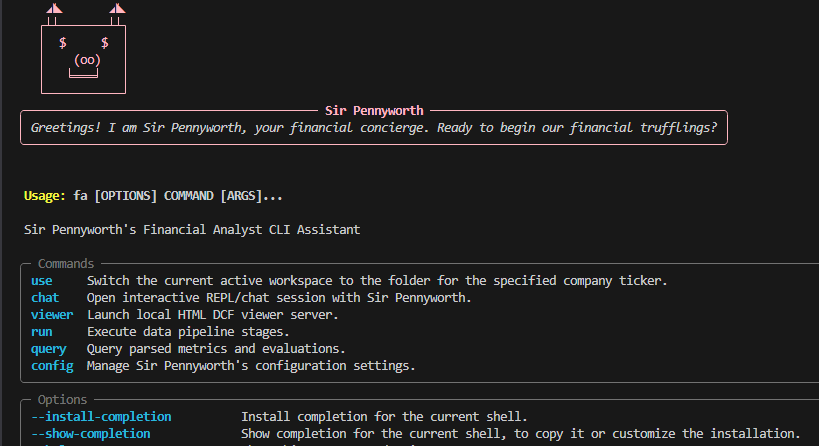
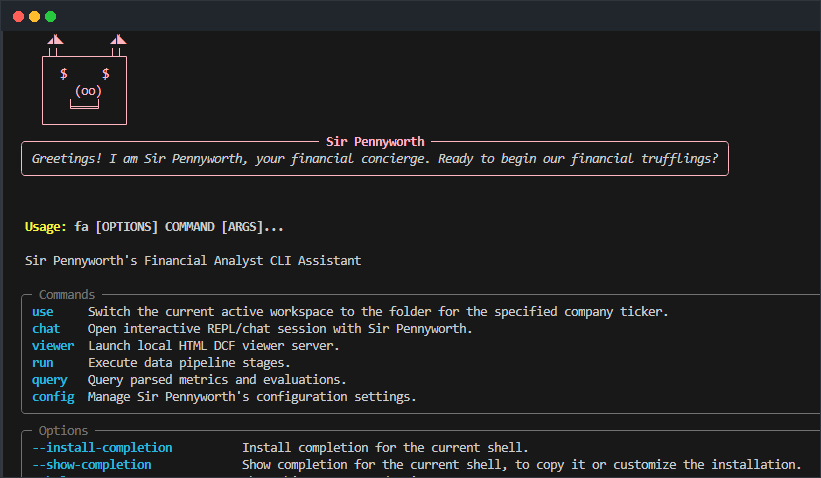
docs: add border formatting and labels to screenshots in README

diff --git a/README.md b/README.md
@@ -14,7 +14,12 @@ The interface is hosted by **Sir Pennyworth**, a greedy financial analyst pig wi
    └───────────┘
 ```
 
-![Sir Pennyworth Help Screen](assets/cli_help.png)
+<p align="center">
+  <img src="assets/cli_help.png" alt="Sir Pennyworth Help Screen" width="800" />
+  <br>
+  <em>Screenshot 1: The Sir Pennyworth interactive CLI help screen showing global options and available subcommands.</em>
+</p>
+
 
 ---
 
@@ -160,7 +165,12 @@ uv run fa run historical
 uv run fa run model
 ```
 
-![Pipeline Execution](assets/pipeline_run.png)
+<p align="center">
+  <img src="assets/pipeline_run.png" alt="Pipeline Execution" width="800" />
+  <br>
+  <em>Screenshot 2: Step-by-step pipeline execution output showing ingest, extraction, and mathematical modeling tasks.</em>
+</p>
+
 
 ### 2. `fa chat` (Interactive Analyst Shell)
 